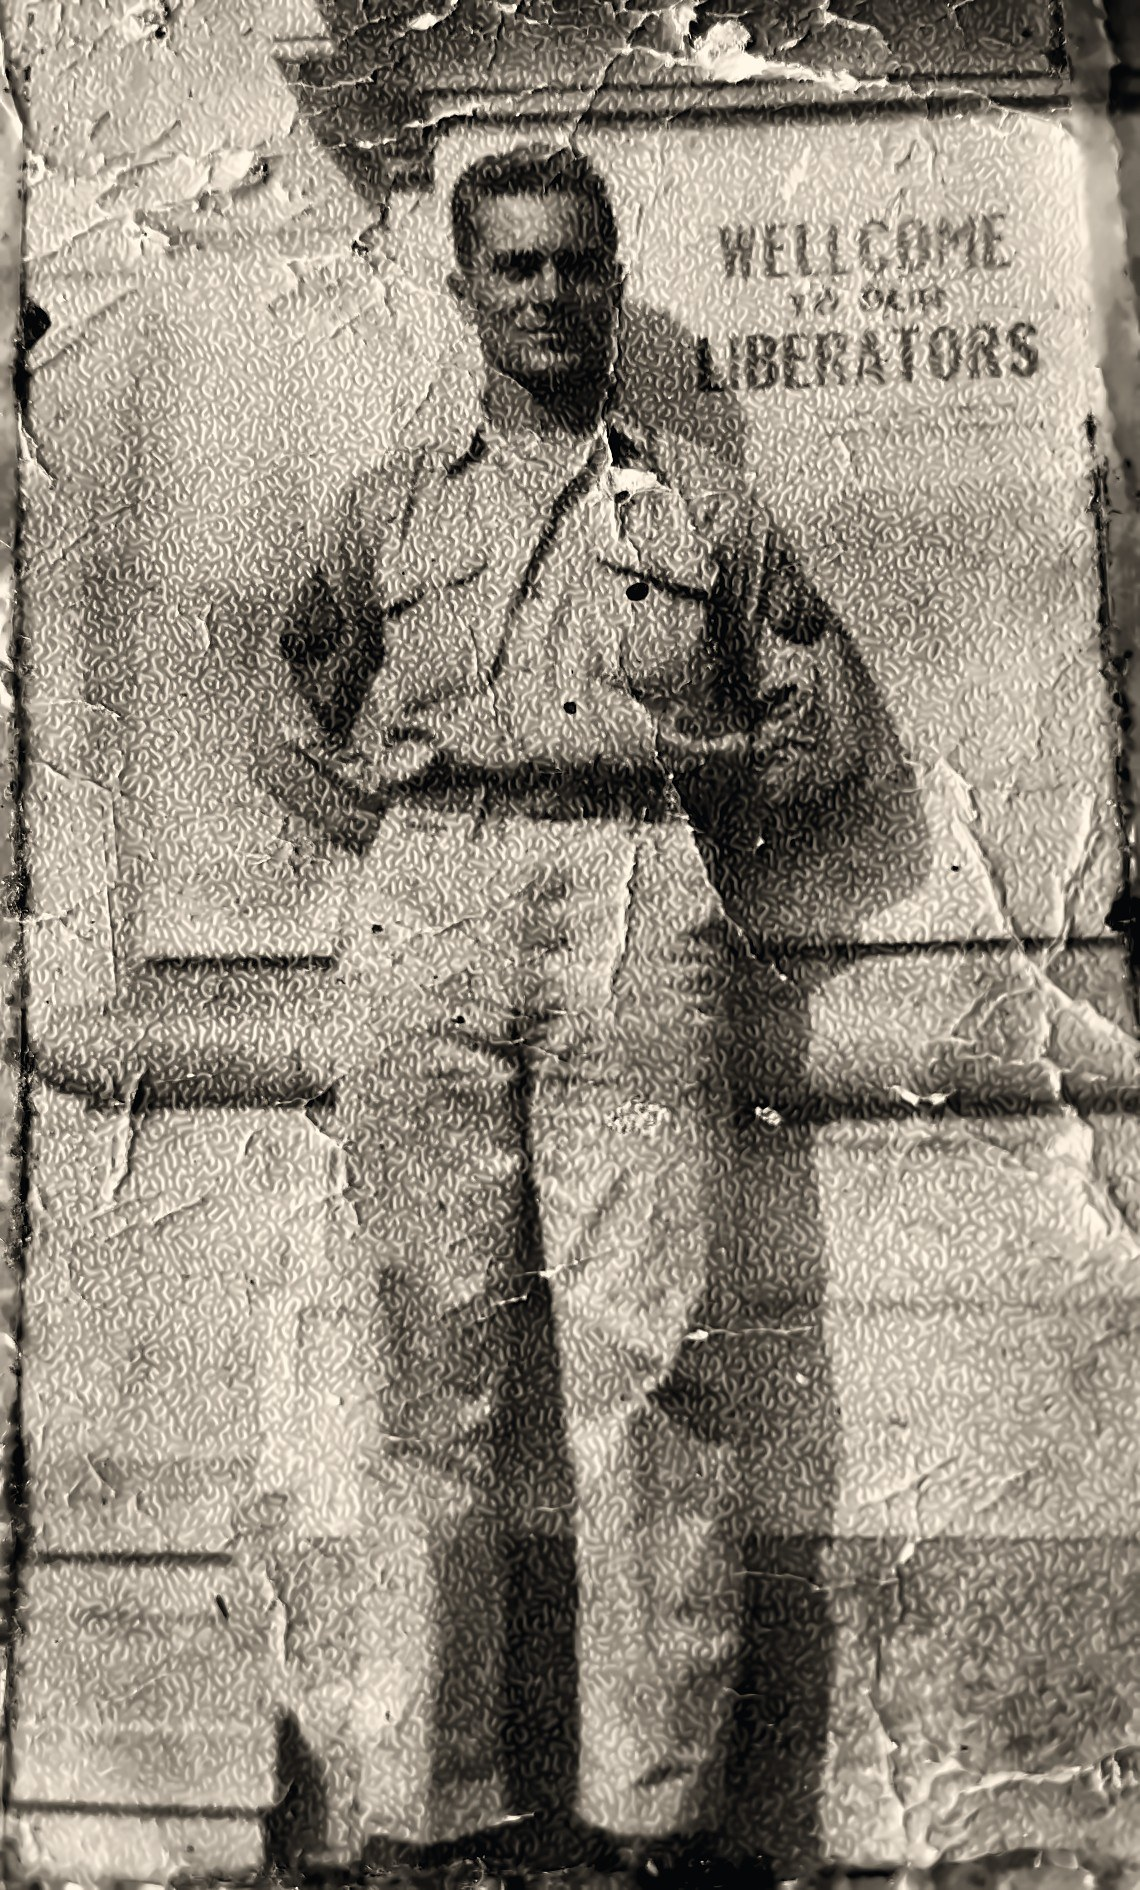
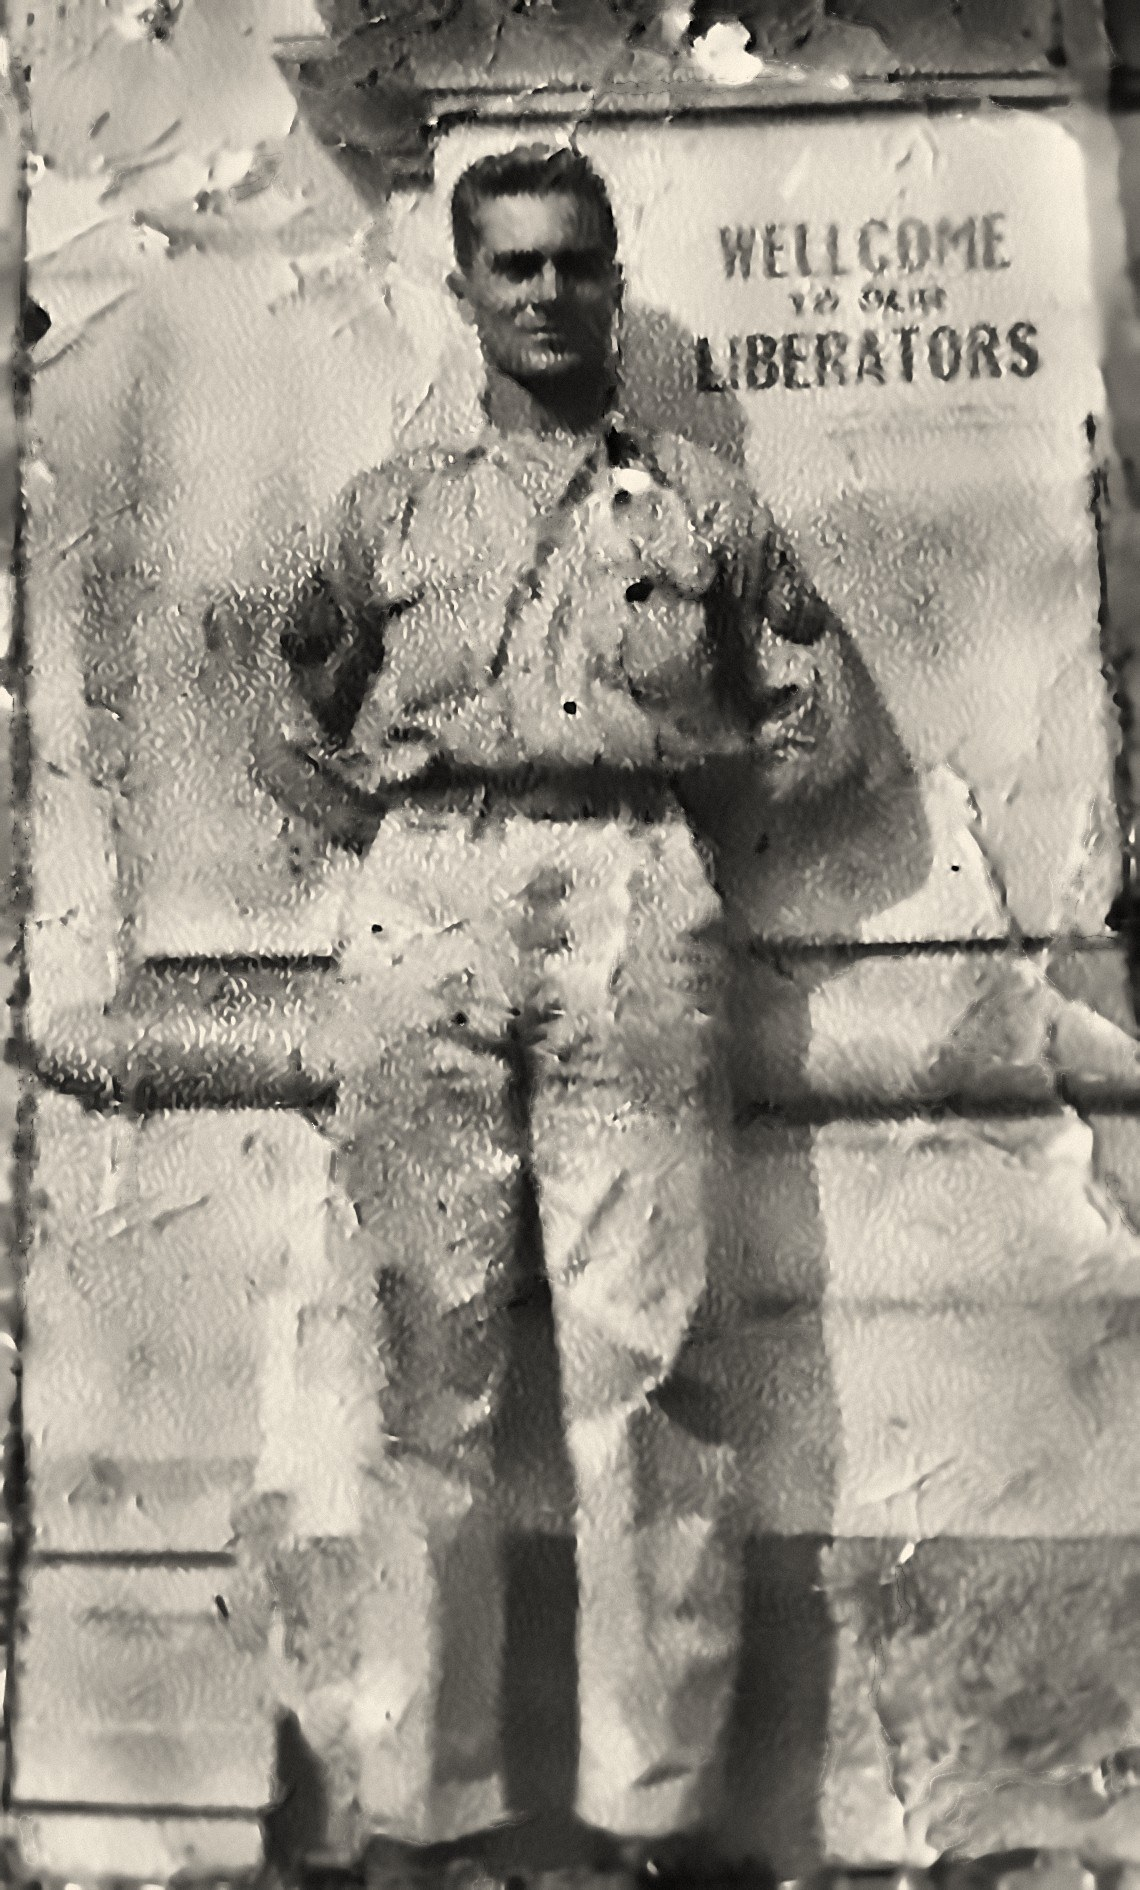
Photo P007: fuller restoration (creases filled, paper texture smoothed); Andy found the light touch-up indistinguishable
Claude-Session: https://claude.ai/code/session_01FWET7Gz7QSAwTmssdBAYWg

diff --git a/site/templates/index.html b/site/templates/index.html
@@ -103,7 +103,7 @@
             <li><span class="when">Apr 1944</span><span class="what">Chemical Warfare School, 24–25 April 1944: his handwritten notes on gas masks and poison gases survive.</span><span class="from">His notebook</span></li>
             <li><span class="when">Italy</span><span class="what">Among his photographs: two soldiers at the Shrine of the Rosary in Pompeii.</span><span class="from">Photograph · place read from the inscription</span></li>
             <li><span class="when">Monte Cassino?</span><span class="what">Grandpa with two fellow soldiers, in a photograph the family thinks may have been taken at Monte Cassino, Italy. Place not confirmed.</span><span class="from">Family</span></li>
-            <li><span class="when">Liberation</span><span class="what">Photographed beneath a sign reading “WELLCOME TO OUR LIBERATORS”; place and date unknown.<a class="journey-photo" href="{{ROOT}}static/photos/P007-grandpa-liberators.jpg"><img src="{{ROOT}}static/photos/P007-grandpa-liberators.jpg" width="1140" height="1890" loading="lazy" alt="Worn black-and-white photograph of Grandpa as a young soldier in khaki, standing against a wall beneath a hand-lettered sign reading WELLCOME TO OUR LIBERATORS."></a><span class="journey-photo-note">Lightly touched up (tones evened, paper texture softened); nothing added or removed. <a href="{{ROOT}}static/photos/P007-grandpa-liberators-original.jpg">Original</a>.</span></span><span class="from">Photograph · family</span></li>
+            <li><span class="when">Liberation</span><span class="what">Photographed beneath a sign reading “WELLCOME TO OUR LIBERATORS”; place and date unknown.<a class="journey-photo" href="{{ROOT}}static/photos/P007-grandpa-liberators.jpg"><img src="{{ROOT}}static/photos/P007-grandpa-liberators.jpg" width="1140" height="1890" loading="lazy" alt="Worn black-and-white photograph of Grandpa as a young soldier in khaki, standing against a wall beneath a hand-lettered sign reading WELLCOME TO OUR LIBERATORS."></a><span class="journey-photo-note">Restored: creases and paper texture smoothed, tones evened; nothing added or removed. <a href="{{ROOT}}static/photos/P007-grandpa-liberators-original.jpg">Original</a>.</span></span><span class="from">Photograph · family</span></li>
             <li><span class="when">30 Apr 1945</span><span class="what">Dachau, the day after the camp was liberated. The family remembers that Grandpa liberated Dachau, and he wanted that history shared. <a href="{{ROOT}}letters/004/notes/#photographs">His photographs</a> (content warning).</span><span class="from">Dated photograph · family</span></li>
             <li><span class="when">Medals</span><span class="what">European-African-Middle Eastern Campaign Medal with an arrowhead (an assault landing) and campaign stars, World War II Victory Medal, Army of Occupation Medal (Germany), Good Conduct Medal.</span><span class="from">Family medal case</span></li>
           </ol>

diff --git a/archive/photos/README.md b/archive/photos/README.md
@@ -12,7 +12,7 @@ Each photo gets a folder `archive/photos/PNNN/` holding `photo.yml`: what it sho
 | P004 | Bodies in a railway freight car; not captioned, kept with P003 and very likely the same train at Dachau. | Andy, 2026-11-10 | Yes: as P003, behind a content warning |
 | P005 | Grandpa as a young soldier, smiling, in front of army tents. | Andy, 2026-11-10 | Yes: on the homepage, "Father and son. Two wars.", captioned "T/4 Pete, Signal Corps"; lightly restored (original linked) |
 | P006 | Dad in swim trunks on a beach in front of a sandbagged bunker with barbed wire, soon after he arrived in Vietnam (family). | Andy, 2026-11-10 | Yes: on the homepage, captioned "SP4 Tom, 6th Artillery" / "The First Days Over Here"; light touch-up (original linked) |
-| P007 | Grandpa beneath a sign reading "WELLCOME TO OUR LIBERATORS"; worn, creased print. | Andy, 2026-11-10 | Yes: in Grandpa's journey on the homepage; lightly touched up (original linked) |
+| P007 | Grandpa beneath a sign reading "WELLCOME TO OUR LIBERATORS"; worn, creased print. | Andy, 2026-11-10 | Yes: in Grandpa's journey on the homepage; restored, creases and texture smoothed (original linked) |
 | P008 | Newspaper clipping, "20 Honored for Aiding Police Work", 1976: Dad and his friend Ronnie given Milwaukee Police citizen awards of merit for capturing two thieves (gas thieves at Dad's car, as the family remembers it). | Andy, 2026-11-10 | Yes: under "Stories Dad told" on the homepage ("Good Citizens"); excerpt only (headline down to Dad's entry) |
 | P009 | Dad smiling on a sofa, in tinted glasses and a dark shirt; color print. | Andy, 2026-11-10 | Yes: the book's inside front cover (needs a larger scan for print) |
 | P010 | The 1976 citizen awards being presented: Mom (Laura) and Bonnie, Ronnie's wife, accept them for Dad and Ronnie, who were at work. | Andy, 2026-11-10 | Yes: with the clipping (P008), "Good Citizens", under "Stories Dad told" on the homepage |
